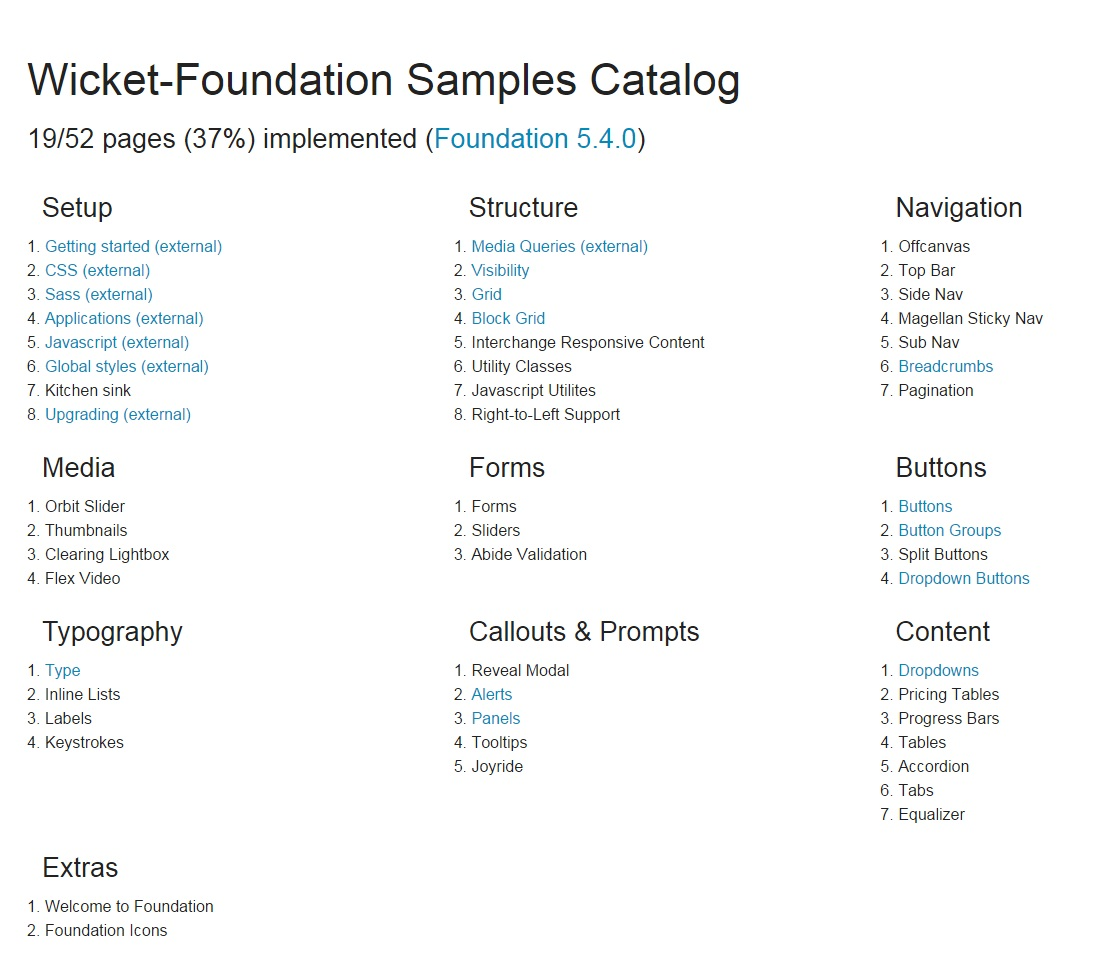
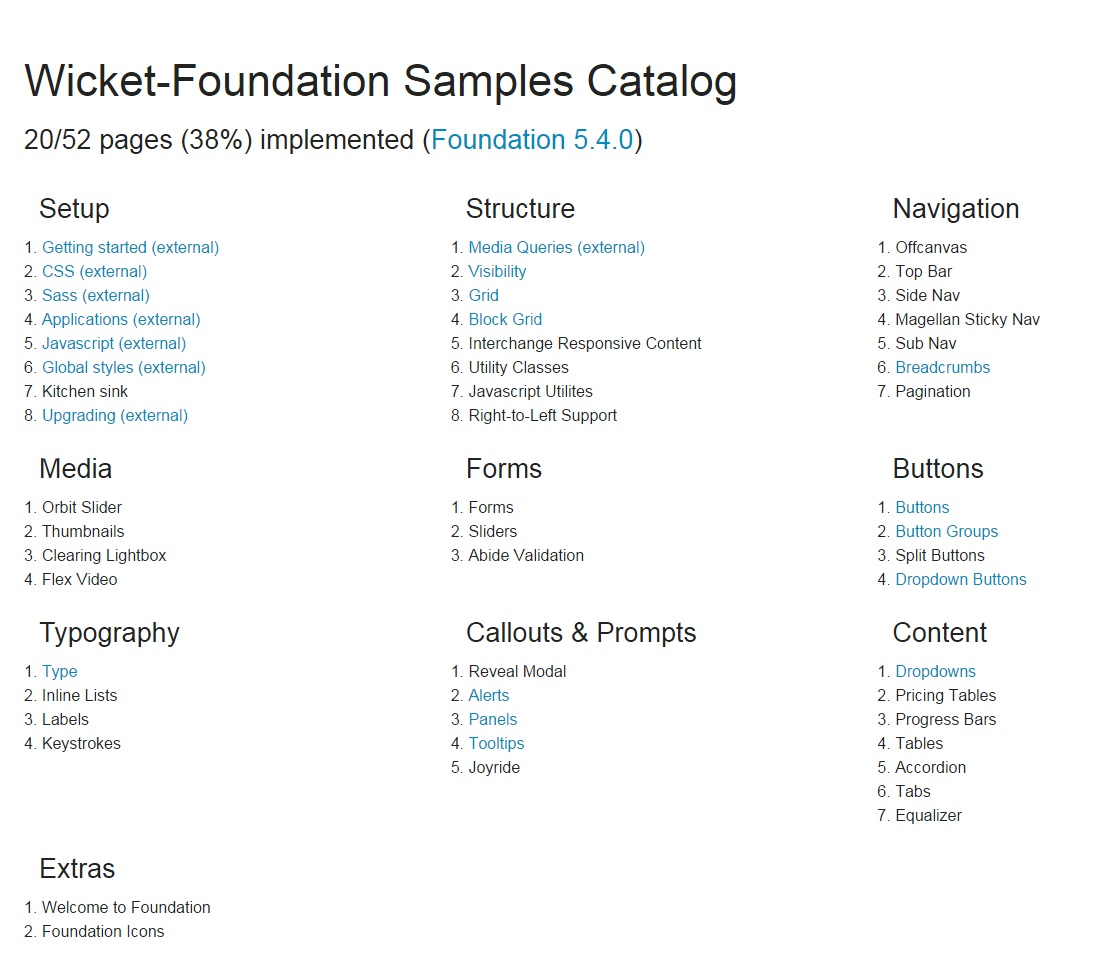
Updated catalog page status and screenshot.

diff --git a/wicket-foundation-samples/src/main/java/com/iluwatar/CatalogPage.html b/wicket-foundation-samples/src/main/java/com/iluwatar/CatalogPage.html
@@ -6,7 +6,7 @@
 		<h1>Wicket-Foundation Samples Catalog</h1>
 	</div>
     <div class="row">
-      <h3>19/52 pages (37%) implemented (<a href="http://foundation.zurb.com/" target="blank">Foundation 5.4.0</a>)</h3>
+      <h3>20/52 pages (38%) implemented (<a href="http://foundation.zurb.com/" target="blank">Foundation 5.4.0</a>)</h3>
     </div>
 
     <p>
